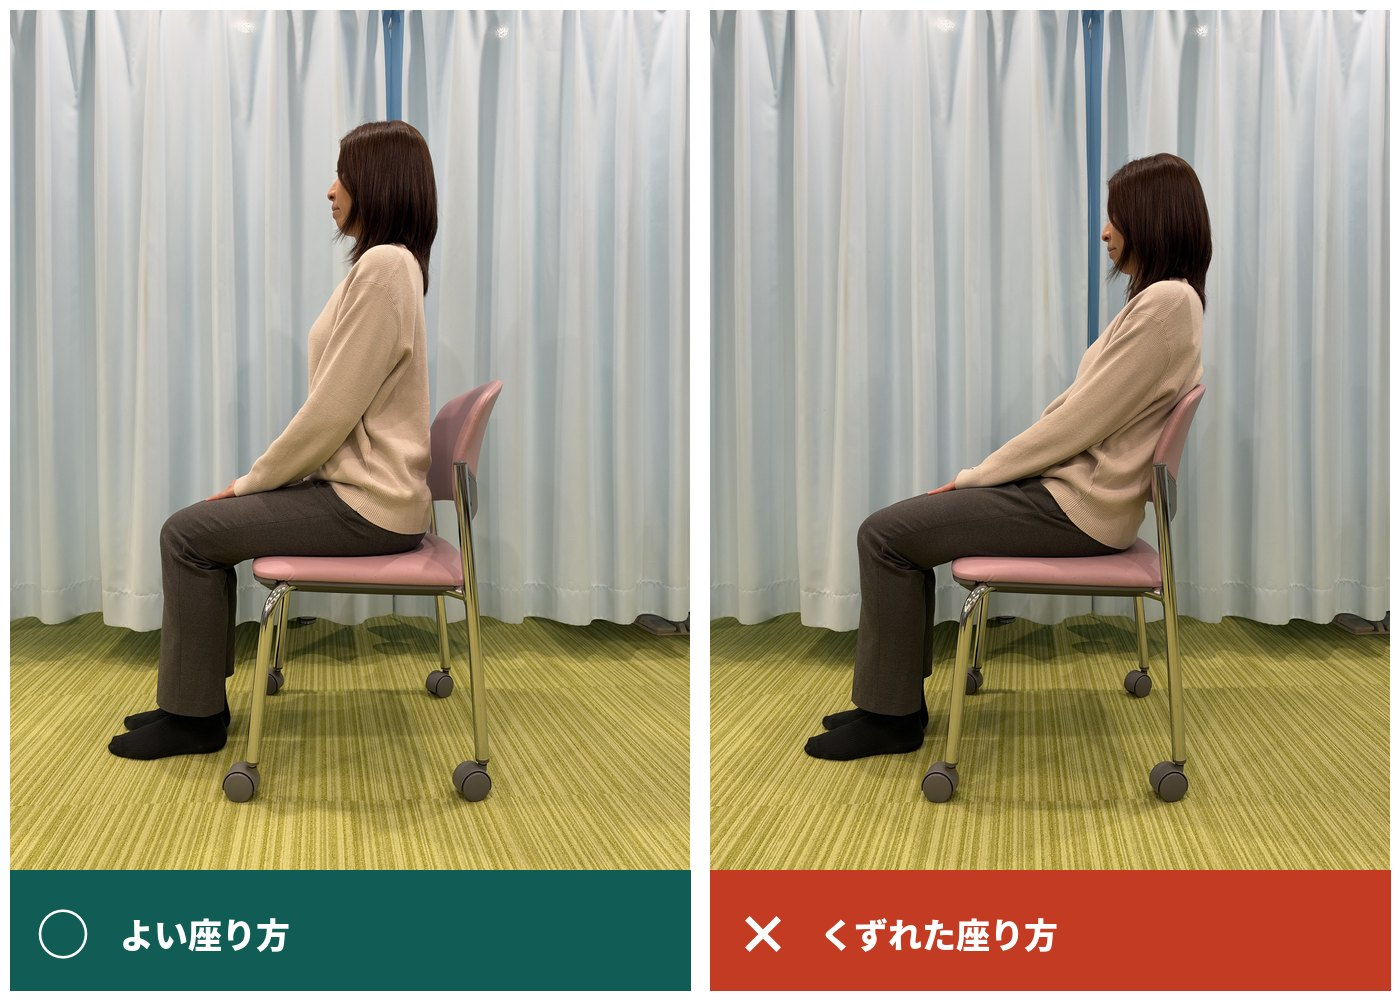
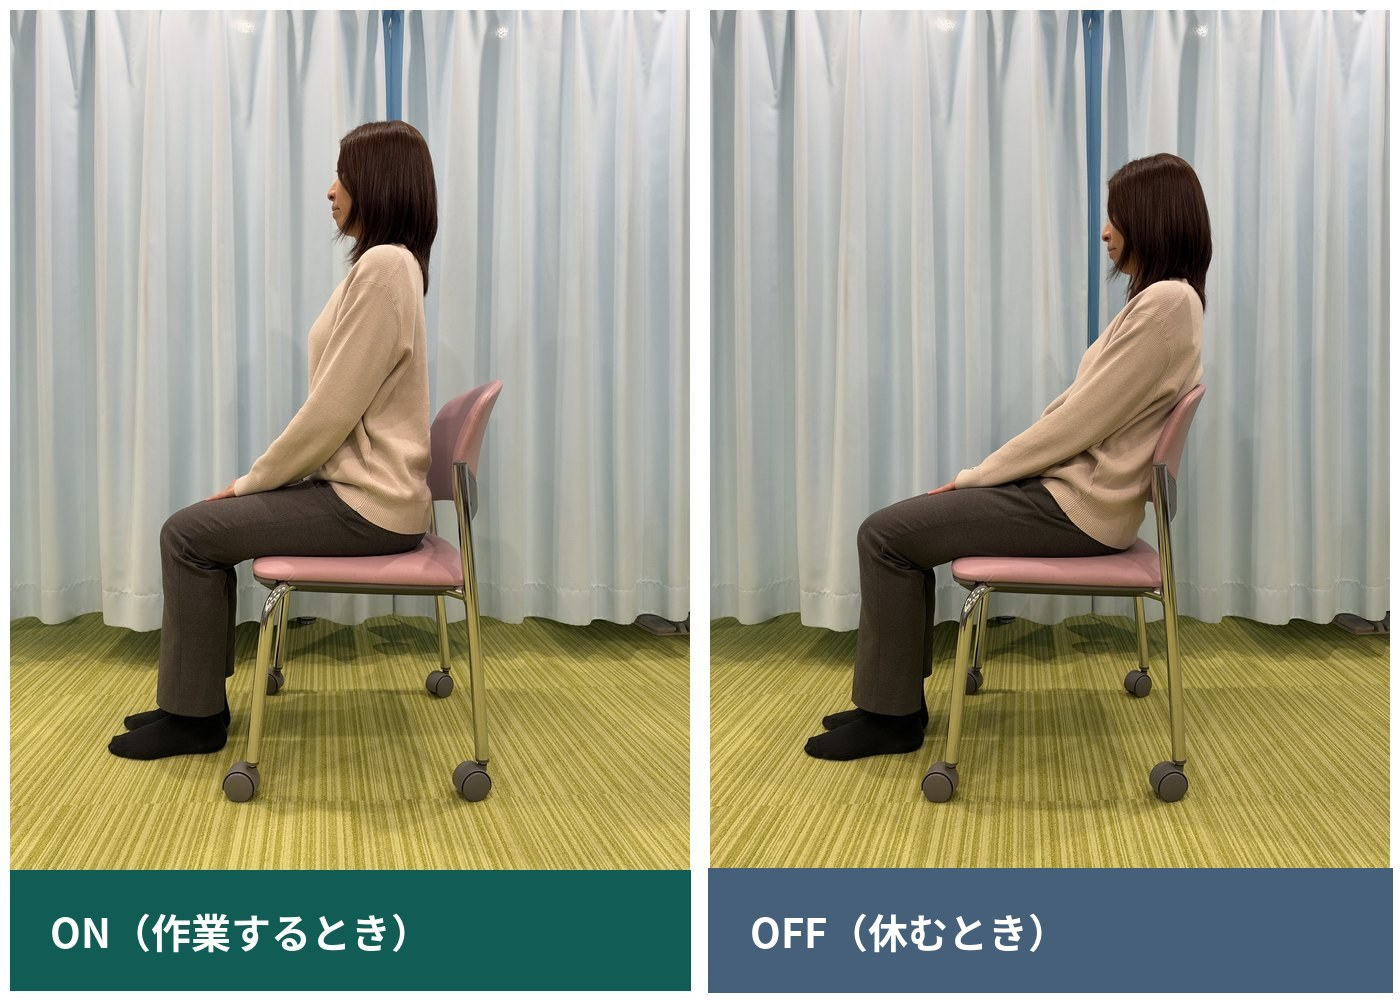
下書き：座り方の写真をON/OFFの表示に直す・立ち方に腹筋の使い方へのつなぎを足す（見本・未公開）
Claude-Session: https://claude.ai/code/session_01PM2mruK46r1eDWs7voThra

Changed region(s): [[0.4914, 0.868, 1.0, 1.0], [0.0307, 0.899, 0.3071, 0.961]]

diff --git a/src/pages/Karada.html b/src/pages/Karada.html
@@ -76,7 +76,7 @@ a{color:#17594F}a:hover{color:#0E3D36}
 <h2 class="reveal" id="sit-h" style="margin: 0; font-size: 30px; line-height: 1.4; font-weight: 900">座り方「ON-OFFの姿勢」</h2>
 <p style="margin: 0; font-size: 18px; font-weight: 700; color: #1B2A27">ずっと良い姿勢でいる必要はありません。</p>
 <figure style="margin: 4px 0; background: #FFFFFF; border-radius: 20px; padding: 12px; border: 1px solid #DCE5E2"><img src="./img/ac_suwari.jpg" alt="椅子の正しい座り方と悪い座り方のイラスト" style="width: 100%; max-width: 560px; height: auto; display: block; margin: 0 auto"><figcaption style="text-align: center; font-size: 14px; color: #4A5C58; margin-top: 6px">上：○ ON（骨盤を起こす）とOFF（深めに座って背もたれで休む）<br>下：× 反り腰・猫背・仙骨座り（浅く座ってずり落ちる）</figcaption></figure>
-<figure style="margin: 4px 0; background: #FFFFFF; border-radius: 20px; padding: 12px; border: 1px solid #DCE5E2"><img src="./img/photo_suwari.jpg" alt="よい座り方とくずれた座り方を横から撮った写真" loading="lazy" style="width: 100%; max-width: 640px; height: auto; display: block; margin: 0 auto; border-radius: 12px"><figcaption style="font-size: 13px; color: #4A5C58; text-align: center; margin-top: 8px">写真で見ると：左はよい座り方　右は背もたれに寄りかかって腰が丸くなった座り方</figcaption></figure>
+<figure style="margin: 4px 0; background: #FFFFFF; border-radius: 20px; padding: 12px; border: 1px solid #DCE5E2"><img src="./img/photo_suwari.jpg" alt="ONの座り方とOFFの座り方を横から撮った写真" loading="lazy" style="width: 100%; max-width: 640px; height: auto; display: block; margin: 0 auto; border-radius: 12px"><figcaption style="font-size: 13px; color: #4A5C58; text-align: center; margin-top: 8px">写真で見ると：左はON（骨盤を起こした座り方）　右はOFF（背もたれにあずけて休む座り方）</figcaption></figure>
 <ul style="margin: 0; padding-left: 1.3em; color: #3A4B47"><li style="margin: 6px 0">デスクワーク中、学校の授業中、くつろいでいるとき、食事中。座っている姿勢はすべて同じ考え方です。</li><li style="margin: 6px 0">デスクワークでは、背もたれに背中と腰を軽くあずけたまま作業していることが多いと思います。これが<b>OFF</b>の姿勢です。一見楽に感じますが、このままずっと続けると猫背が強くなり、肩こりや腰痛につながりやすくなります。</li><li style="margin: 6px 0">OFFは悪い姿勢ではありません。<b>休むための姿勢</b>です。浅く座ると角度のきついOFFになるので、少し深めに座りましょう。背中の筋肉を休ませる大切な時間です。</li><li style="margin: 6px 0"><b>ON</b>：OFFの姿勢から、ゆっくり骨盤を起こします。反り腰になりすぎないよう、骨盤を軽く立てるくらいで。座骨に少し体重がのり、自然に背すじが起きます。作業はこの姿勢で行います。ONのときは<a href="#abs">腹筋の使い方</a>も一緒に。</li><li style="margin: 6px 0">ONは自分の力で支える<b>「自力」</b>の姿勢、OFFは背もたれにあずける<b>「他力」</b>の姿勢です。この2つをくり返します。</li><li style="margin: 6px 0"><b>切り替えのタイミング</b>：ONで腰のまわりが少しでも疲れたと感じたら、我慢せずにすぐOFFへ。腰が休まったと感じたら、またONへ。</li><li style="margin: 6px 0">疲れているのに我慢してONを続けると、カラダがねじれたりかたよったりする原因になります。「しんどいからもうやりたくない」という気持ちにもなってしまいます。</li><li style="margin: 6px 0">最初はONの時間が短くて当たり前。良い姿勢を保つ筋肉が弱っているからです。ONとOFFをくり返しながら、ONの時間を少しずつ長くしていきましょう。</li></ul>
 </div>
 </section>
@@ -86,7 +86,7 @@ a{color:#17594F}a:hover{color:#0E3D36}
 <h2 class="reveal" id="stand-h" style="margin: 0; font-size: 30px; line-height: 1.4; font-weight: 900">立ち方</h2>
 <p style="margin: 0; font-size: 18px; font-weight: 700; color: #1B2A27">左右均等に外くるぶしの真下に体重をのせて。</p>
 <div style="background: #FFFFFF; border-radius: 20px; padding: 8px; border: 1px solid #DCE5E2"><svg viewBox="0 0 660 300" role="img" aria-label="片足重心の立ち方と、足を肩幅に開いて左右均等に立つ正しい立ち方をくらべたイラスト" style="width: 100%; height: auto; display: block"><rect x="6" y="6" width="318" height="288" rx="18" fill="#F4F6F5"></rect><rect x="336" y="6" width="318" height="288" rx="18" fill="#E3F0EB" stroke="#17594F" stroke-width="2.5"></rect><path d="M159 112 L133 214" stroke="#46607A" stroke-width="14" stroke-linecap="round" stroke-linejoin="round" fill="none"></path><path d="M174 112 L178 218" stroke="#46607A" stroke-width="14" stroke-linecap="round" stroke-linejoin="round" fill="none"></path><ellipse cx="179" cy="222" rx="7" ry="9" fill="#3A3A3A"></ellipse><ellipse cx="130" cy="218" rx="9" ry="7" transform="rotate(-30 130 218)" fill="#3A3A3A"></ellipse><circle cx="179" cy="238" r="6" fill="#B5651D"></circle><g transform="rotate(6 171 128)"><rect x="148" y="64" width="34" height="66" rx="12" fill="#5BAE97"></rect><path d="M146 72 L140 124 M184 72 L190 124" stroke="#5BAE97" stroke-width="8" stroke-linecap="round" stroke-linejoin="round" fill="none"></path><circle cx="140" cy="128" r="4.5" fill="#F5D0B5"></circle><circle cx="190" cy="128" r="4.5" fill="#F5D0B5"></circle><circle cx="165" cy="46" r="15" fill="#F5D0B5"></circle><path d="M150 44 a15 15 0 0 1 30 0 q-15 -8 -30 0z" fill="#4A3B32"></path></g><path d="M29 29 L51 51 M51 29 L29 51" stroke="#B5651D" stroke-width="4" stroke-linecap="round" stroke-linejoin="round" fill="none"></path><text x="165" y="262" text-anchor="middle" font-size="17" font-weight="700" fill="#B5651D" font-family="Zen Kaku Gothic New, Hiragino Sans, sans-serif">片足に体重をのせる</text><text x="165" y="284" text-anchor="middle" font-size="13" font-weight="500" fill="#4A5C58" font-family="Zen Kaku Gothic New, Hiragino Sans, sans-serif">脚の長さに差が出る原因に</text><path d="M486 112 L481 218 M504 112 L509 218" stroke="#46607A" stroke-width="14" stroke-linecap="round" stroke-linejoin="round" fill="none"></path><ellipse cx="480" cy="222" rx="7" ry="9" fill="#3A3A3A"></ellipse><ellipse cx="510" cy="222" rx="7" ry="9" fill="#3A3A3A"></ellipse><circle cx="475" cy="226" r="4" fill="#E8743B"></circle><circle cx="515" cy="226" r="4" fill="#E8743B"></circle><path d="M461 238 h68 M461 234 v8 M529 234 v8" stroke="#9DB7C9" stroke-width="2" stroke-linecap="round" stroke-linejoin="round" fill="none"></path><g transform="rotate(0 501 128)"><rect x="478" y="64" width="34" height="66" rx="12" fill="#5BAE97"></rect><path d="M476 72 L470 124 M514 72 L520 124" stroke="#5BAE97" stroke-width="8" stroke-linecap="round" stroke-linejoin="round" fill="none"></path><circle cx="470" cy="128" r="4.5" fill="#F5D0B5"></circle><circle cx="520" cy="128" r="4.5" fill="#F5D0B5"></circle><circle cx="495" cy="46" r="15" fill="#F5D0B5"></circle><path d="M480 44 a15 15 0 0 1 30 0 q-15 -8 -30 0z" fill="#4A3B32"></path></g><circle cx="370" cy="40" r="13" fill="none" stroke="#17594F" stroke-width="4"></circle><text x="495" y="262" text-anchor="middle" font-size="17" font-weight="700" fill="#17594F" font-family="Zen Kaku Gothic New, Hiragino Sans, sans-serif">左右均等・足は肩幅</text><text x="495" y="284" text-anchor="middle" font-size="13" font-weight="500" fill="#4A5C58" font-family="Zen Kaku Gothic New, Hiragino Sans, sans-serif">体重は外くるぶしの真下に（●）</text></svg></div>
-<ul style="margin: 0; padding-left: 1.3em; color: #3A4B47"><li style="margin: 6px 0">立っていると、左右どちらかに傾きやすくなります。片足に体重をのせると、反対の足を外に軽く出して立ってしまい、股関節が開いて脚の長さに差が出ます（仮性延長）。</li><li style="margin: 6px 0">左右均等に体重をかけましょう。足をそろえて立つと重心が一点になり、ふらつきやすくなるので、足は肩幅くらいに開き、つま先はまっすぐ正面に向けます。</li><li style="margin: 6px 0">体重は<b>外くるぶしの真下</b>にのせるイメージで。かかとにのせると、後ろ重心が強くなってしまいます。</li><li style="margin: 6px 0"><a href="#abs">腹筋の使い方</a>を合わせると、立っているときに自然に胸が張れて、人からの見え方も良くなります。腰が疲れたら脱力して、またくり返します。</li></ul>
+<ul style="margin: 0; padding-left: 1.3em; color: #3A4B47"><li style="margin: 6px 0">立ち方の基本は、<a href="#abs">腹筋の使い方</a>と同じです。立った姿勢で腹筋を使います。</li><li style="margin: 6px 0">立っていると、左右どちらかに傾きやすくなります。片足に体重をのせると、反対の足を外に軽く出して立ってしまい、股関節が開いて脚の長さに差が出ます（仮性延長）。</li><li style="margin: 6px 0">左右均等に体重をかけましょう。足をそろえて立つと重心が一点になり、ふらつきやすくなるので、足は胴幅から肩幅に開き、つま先はまっすぐ正面に向けます。</li><li style="margin: 6px 0">体重は<b>外くるぶしの真下</b>にのせるイメージで。かかとにのせると、後ろ重心が強くなってしまいます。</li><li style="margin: 6px 0"><a href="#abs">腹筋の使い方</a>を合わせると、立っているときに自然に胸が張れて、人からの見え方も良くなります。腰が疲れたら脱力して、またくり返します。</li></ul>
 </div>
 </section>
 <section id="walk" aria-labelledby="walk-h" style="background: #FFFFFF">

diff --git a/src/pages/Kotsupika.html b/src/pages/Kotsupika.html
@@ -84,7 +84,7 @@ summary::marker{color:#17594F}
 <li style="display: flex; flex-wrap: wrap; gap: 18px; align-items: center; padding: 20px; border-radius: 14px; background: #FFFFFF; border: 1px solid #C9D8D4"><img src="./img/monshin2.jpg?v=2" alt="問診の様子" loading="lazy" style="flex: 1 1 220px; min-width: 0; max-width: 320px; width: 100%; aspect-ratio: 4 / 3; object-fit: cover; border-radius: 12px; display: block"><span style="flex: 1 1 240px; min-width: 0; display: flex; flex-direction: column; gap: 4px"><b style="color: #17594F; letter-spacing: 0.06em">STEP 1</b><b style="font-size: 18px">お話と検査</b><span style="color: #3A4B47">いつから・どこが・どんなときにつらいかをうかがい、姿勢や動きを確かめます。分かったことは、言葉で分かりやすくお伝えします。</span></span></li>
 <li style="display: flex; flex-wrap: wrap; gap: 18px; align-items: center; padding: 20px; border-radius: 14px; background: #FFFFFF; border: 1px solid #C9D8D4"><img src="./img/shisei.jpg?v=2" alt="タブレットで姿勢を撮影して分析している様子" loading="lazy" style="flex: 1 1 220px; min-width: 0; max-width: 320px; width: 100%; aspect-ratio: 4 / 3; object-fit: cover; border-radius: 12px; display: block"><span style="flex: 1 1 240px; min-width: 0; display: flex; flex-direction: column; gap: 4px"><b style="color: #17594F; letter-spacing: 0.06em">STEP 2</b><b style="font-size: 18px">ぴかっto！で姿勢を撮影</b><span style="color: #3A4B47">タブレットで正面と横から姿勢を撮影し、今の姿勢の「現在地」とくせを数字とグラフでお見せします（初回と定期券の更新のとき）。</span></span></li>
 <li style="display: flex; flex-wrap: wrap; gap: 18px; align-items: center; padding: 20px; border-radius: 14px; background: #FFFFFF; border: 1px solid #C9D8D4"><img src="./img/kotsupika1.jpg?v=2" alt="骨ぴか整体（骨格矯正）の施術の様子" loading="lazy" style="flex: 1 1 220px; min-width: 0; max-width: 320px; width: 100%; aspect-ratio: 4 / 3; object-fit: cover; border-radius: 12px; display: block"><span style="flex: 1 1 240px; min-width: 0; display: flex; flex-direction: column; gap: 4px"><b style="color: #17594F; letter-spacing: 0.06em">STEP 3</b><b style="font-size: 18px">骨ぴか整体の施術</b><span style="color: #3A4B47">骨盤や背骨を中心に、カラダ全体のユガミを整えます。力加減は調整しますので、不安なことは遠慮なくお伝えください。</span></span></li>
-<li style="display: flex; flex-wrap: wrap; gap: 18px; align-items: center; padding: 20px; border-radius: 14px; background: #FFFFFF; border: 1px solid #C9D8D4"><img src="./img/photo_suwari.jpg" alt="よい座り方とくずれた座り方を横から撮った写真" loading="lazy" style="flex: 1 1 220px; min-width: 0; max-width: 320px; width: 100%; aspect-ratio: 4 / 3; object-fit: cover; border-radius: 12px; display: block"><span style="flex: 1 1 240px; min-width: 0; display: flex; flex-direction: column; gap: 4px"><b style="color: #17594F; letter-spacing: 0.06em">STEP 4</b><b style="font-size: 18px">カラダの使い方をお伝え</b><span style="color: #3A4B47">腹筋の使い方・座り方・立ち方・歩き方など、あなたが特に意識することをお伝えします。</span></span></li>
+<li style="display: flex; flex-wrap: wrap; gap: 18px; align-items: center; padding: 20px; border-radius: 14px; background: #FFFFFF; border: 1px solid #C9D8D4"><img src="./img/photo_suwari.jpg" alt="ONの座り方とOFFの座り方を横から撮った写真" loading="lazy" style="flex: 1 1 220px; min-width: 0; max-width: 320px; width: 100%; aspect-ratio: 4 / 3; object-fit: cover; border-radius: 12px; display: block"><span style="flex: 1 1 240px; min-width: 0; display: flex; flex-direction: column; gap: 4px"><b style="color: #17594F; letter-spacing: 0.06em">STEP 4</b><b style="font-size: 18px">カラダの使い方をお伝え</b><span style="color: #3A4B47">腹筋の使い方・座り方・立ち方・歩き方など、あなたが特に意識することをお伝えします。</span></span></li>
 </ol>
 <p style="margin: 0; color: #3A4B47">2回目以降は、約30〜40分です（施術内容によります）。ご予約の方を優先してご案内します。</p>
 </div>

diff --git a/src/pages/Sango.html b/src/pages/Sango.html
@@ -86,7 +86,7 @@ summary::marker{color:#17594F}
 <ol style="list-style: none; margin: 0; padding: 0; display: flex; flex-direction: column; gap: 10px">
 <li style="display: flex; flex-wrap: wrap; gap: 18px; align-items: center; padding: 20px; border-radius: 14px; background: #FFFFFF; border: 1px solid #C9D8D4"><img src="./img/monshin2.jpg?v=2" alt="問診の様子" loading="lazy" style="flex: 1 1 220px; min-width: 0; max-width: 320px; width: 100%; aspect-ratio: 4 / 3; object-fit: cover; border-radius: 12px; display: block"><span style="flex: 1 1 240px; min-width: 0; display: flex; flex-direction: column; gap: 4px"><b style="color: #17594F; letter-spacing: 0.06em">STEP 1</b><b style="font-size: 18px">お話と検査</b><span style="color: #3A4B47">出産からの月数、気になる所、普段の抱っこや授乳の姿勢をうかがい、姿勢や動きを確かめます。帝王切開の方や、医師から言われていることがある方は、お伝えください。</span></span></li>
 <li style="display: flex; flex-wrap: wrap; gap: 18px; align-items: center; padding: 20px; border-radius: 14px; background: #FFFFFF; border: 1px solid #C9D8D4"><img src="./img/kotsupika3.jpg" alt="骨ぴか整体（骨格矯正）で背骨から骨盤まわりを整えている様子" loading="lazy" style="flex: 1 1 220px; min-width: 0; max-width: 320px; width: 100%; aspect-ratio: 4 / 3; object-fit: cover; border-radius: 12px; display: block"><span style="flex: 1 1 240px; min-width: 0; display: flex; flex-direction: column; gap: 4px"><b style="color: #17594F; letter-spacing: 0.06em">STEP 2</b><b style="font-size: 18px">骨ぴか整体でユガミを整える</b><span style="color: #3A4B47">産後3か月からご案内しています。骨盤や背骨のユガミを整えます。力加減は、カラダの状態に合わせて調整します。</span></span></li>
-<li style="display: flex; flex-wrap: wrap; gap: 18px; align-items: center; padding: 20px; border-radius: 14px; background: #FFFFFF; border: 1px solid #C9D8D4"><img src="./img/photo_suwari.jpg" alt="よい座り方とくずれた座り方を横から撮った写真" loading="lazy" style="flex: 1 1 220px; min-width: 0; max-width: 320px; width: 100%; aspect-ratio: 4 / 3; object-fit: cover; border-radius: 12px; display: block"><span style="flex: 1 1 240px; min-width: 0; display: flex; flex-direction: column; gap: 4px"><b style="color: #17594F; letter-spacing: 0.06em">STEP 3</b><b style="font-size: 18px">カラダの使い方を一緒に見直す</b><span style="color: #3A4B47">抱っこや授乳のときの姿勢、腹筋の使い方をお伝えします。ご自分でカラダを整えられるところまでを目指します。</span></span></li>
+<li style="display: flex; flex-wrap: wrap; gap: 18px; align-items: center; padding: 20px; border-radius: 14px; background: #FFFFFF; border: 1px solid #C9D8D4"><img src="./img/photo_suwari.jpg" alt="ONの座り方とOFFの座り方を横から撮った写真" loading="lazy" style="flex: 1 1 220px; min-width: 0; max-width: 320px; width: 100%; aspect-ratio: 4 / 3; object-fit: cover; border-radius: 12px; display: block"><span style="flex: 1 1 240px; min-width: 0; display: flex; flex-direction: column; gap: 4px"><b style="color: #17594F; letter-spacing: 0.06em">STEP 3</b><b style="font-size: 18px">カラダの使い方を一緒に見直す</b><span style="color: #3A4B47">抱っこや授乳のときの姿勢、腹筋の使い方をお伝えします。ご自分でカラダを整えられるところまでを目指します。</span></span></li>
 </ol>
 <p style="margin: 0; color: #3A4B47">整えたカラダを保つには、施術だけでなく、普段のカラダの使い方も大切です。<a href="Karada.html">正しいカラダの使い方</a>／<a href="Main.html#kotsupika">骨ぴか整体（骨格矯正）</a></p>
 </div>
